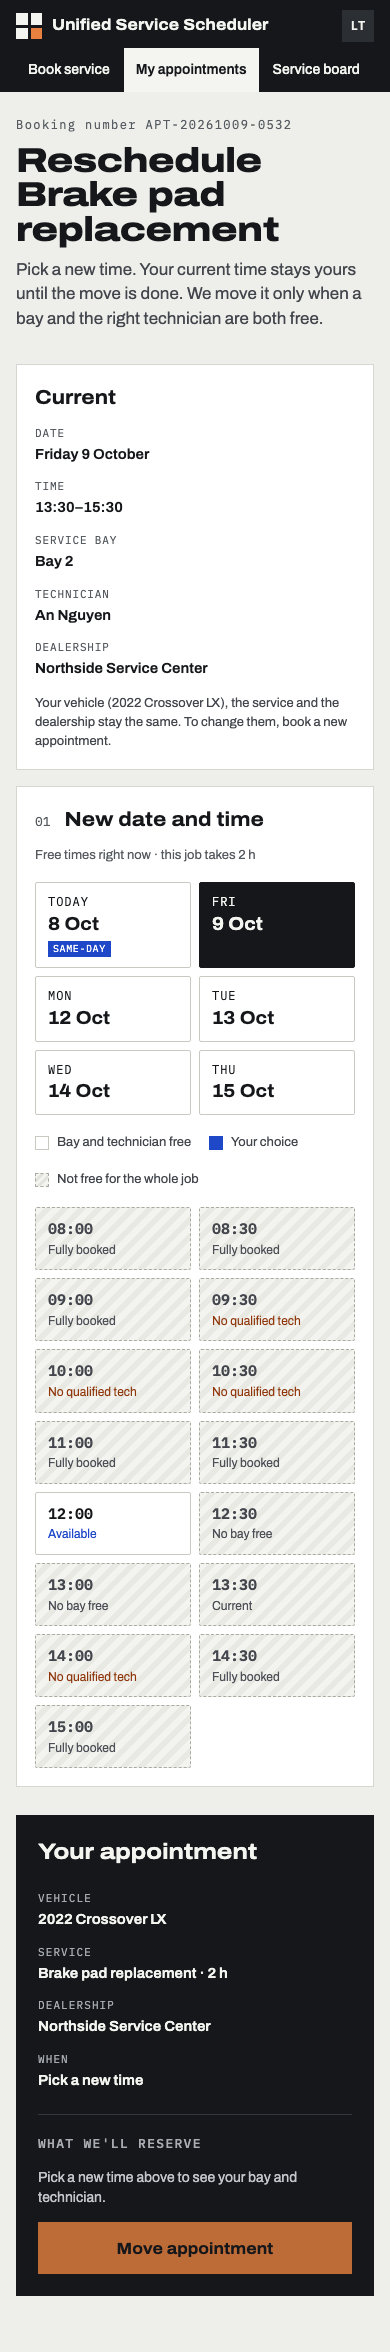
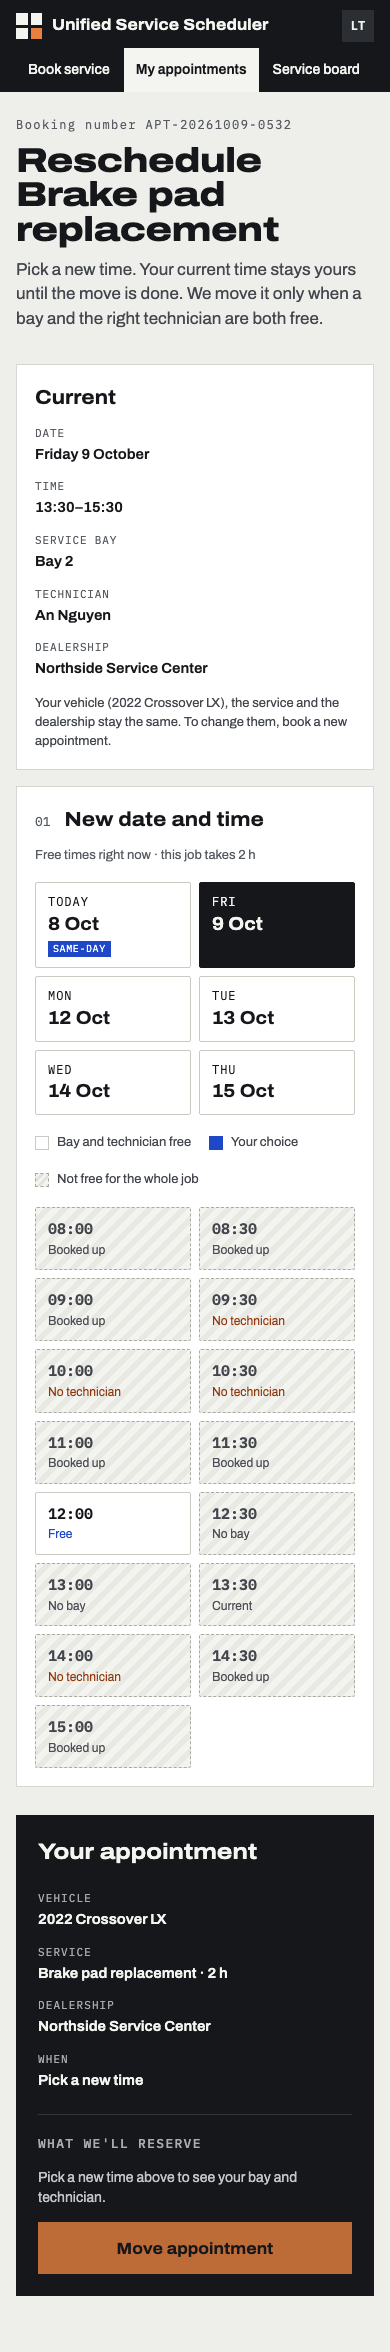
W6-F6: SPEC v0.3.1 copy

diff --git a/apps/web/src/screens/book/BookScreen.test.tsx b/apps/web/src/screens/book/BookScreen.test.tsx
@@ -77,7 +77,7 @@ describe('Book screen', () => {
       const slots = enabledSlots(group);
       expect(slots[0]).toHaveAttribute('aria-pressed', 'true');
       expect(slots.filter((b) => b.getAttribute('aria-pressed') === 'true')).toHaveLength(1);
-      expect(slots[0]!.getAttribute('aria-label')).toMatch(/^\d\d:\d\d to \d\d:\d\d, Available$/);
+      expect(slots[0]!.getAttribute('aria-label')).toMatch(/^\d\d:\d\d to \d\d:\d\d, Free$/);
     });
   });
 
@@ -105,11 +105,11 @@ describe('Book screen', () => {
     await user.click(screen.getByRole('button', { name: /^Today, Thu 8 Oct/ }));
     expect(
       await screen.findByText(
-        /Brake pad replacement can't be booked for today\. Same-day booking covers express services: Oil and filter change, General inspection/,
+        /Brake pad replacement can't be booked for today\. Today we only take express jobs: Oil and filter change, General inspection.*\. Pick another day for this service\./,
       ),
     ).toBeInTheDocument();
     expect(
-      screen.getByText(/Same-day booking covers express maintenance only\. Please arrive on time/),
+      screen.getByText(/Same-day booking is for express jobs only\. Please arrive on time/),
     ).toHaveTextContent('more than 15 minutes late');
     expect(screen.queryByRole('group', { name: 'Start time' })).not.toBeInTheDocument();
   });
@@ -126,7 +126,7 @@ describe('Book screen', () => {
     });
     const group = await slotGroup();
     const open = enabledSlots(group);
-    if (open.length) expect(open[0]).toHaveTextContent('Express slot');
+    if (open.length) expect(open[0]).toHaveTextContent('Express');
   });
 
   it('parts scenario blocks express services today', async () => {
@@ -137,7 +137,7 @@ describe('Book screen', () => {
     await user.click(screen.getByRole('button', { name: /^Today, Thu 8 Oct/ }));
     expect(
       await screen.findByText(
-        /Parts for this service aren't in stock at Northside Service Center today\. Try another dealership or a later date\./,
+        /We don't have the parts for this service at Northside Service Center today\. Try another dealership or another day\./,
       ),
     ).toBeInTheDocument();
   });
@@ -150,7 +150,7 @@ describe('Book screen', () => {
     await user.click(screen.getByRole('button', { name: /^Today, Thu 8 Oct/ }));
     expect(
       await screen.findByText(
-        /Same-day booking for today has closed\. Earliest same-day start is 2 hours ahead\./,
+        /Booking for today is closed\. Same-day jobs must start at least 2 hours from now\. Pick another day\./,
       ),
     ).toBeInTheDocument();
   });

diff --git a/apps/web/src/screens/book/TimePicker.tsx b/apps/web/src/screens/book/TimePicker.tsx
@@ -109,7 +109,7 @@ export function TimePicker({
 
       {date === today || data?.sameDay ? (
         <p className={styles.notice}>
-          {`Same-day booking covers express maintenance only. Please arrive on time — same-day bookings are released if you are more than ${graceMin} minutes late.`}
+          {`Same-day booking is for express jobs only. Please arrive on time. If you are more than ${graceMin} minutes late, we give your time to someone else.`}
         </p>
       ) : null}
 
@@ -142,17 +142,17 @@ export function TimePicker({
       ) : data?.sameDay?.blocked === 'SERVICE_NOT_EXPRESS' ? (
         <p
           className={styles.warn}
-        >{`${serviceName} can't be booked for today. Same-day booking covers express services: ${expressNames.join(', ')}.`}</p>
+        >{`${serviceName} can't be booked for today. Today we only take express jobs: ${expressNames.join(', ')}. Pick another day for this service.`}</p>
       ) : data?.sameDay?.blocked === 'PARTS_UNAVAILABLE' ? (
         <p className={styles.warn}>
           {fixedDealership
-            ? `Parts for this service aren't in stock at ${dealerName} today. Try a later date.`
-            : `Parts for this service aren't in stock at ${dealerName} today. Try another dealership or a later date.`}
+            ? `We don't have the parts for this service at ${dealerName} today. Try another day.`
+            : `We don't have the parts for this service at ${dealerName} today. Try another dealership or another day.`}
         </p>
       ) : data?.sameDay?.blocked === 'PAST_CUTOFF' ? (
         <p
           className={styles.warn}
-        >{`Same-day booking for today has closed. Earliest same-day start is ${data.sameDay.leadTimeMin / 60} hours ahead.`}</p>
+        >{`Booking for today is closed. Same-day jobs must start at least ${data.sameDay.leadTimeMin / 60} hours from now. Pick another day.`}</p>
       ) : (
         <>
           <SlotGrid slots={slots} selectedStart={selectedStart} currentStart={currentStart} onPick={onPick} />

diff --git a/e2e/03-same-day-express.spec.ts b/e2e/03-same-day-express.spec.ts
@@ -15,10 +15,10 @@ test('Today: express services show Express slots and the notice; brake pads show
 
   await expect(
     page.getByText(
-      'Same-day booking covers express maintenance only. Please arrive on time — same-day bookings are released if you are more than 15 minutes late.',
+      'Same-day booking is for express jobs only. Please arrive on time. If you are more than 15 minutes late, we give your time to someone else.',
     ),
   ).toBeVisible();
-  const express = page.getByRole('button', { name: /to \d\d:\d\d, Express slot$/ });
+  const express = page.getByRole('button', { name: /to \d\d:\d\d, Express$/ });
   await expect(express.first()).toBeVisible();
   // Lead time: nothing is offered before 11:30 (09:10 + 2 h).
   await expect(page.getByRole('button', { name: /^(08|09|10|11:00) to / })).toHaveCount(0);
@@ -26,12 +26,12 @@ test('Today: express services show Express slots and the notice; brake pads show
 
   await serviceButton(page, 'Brake pad replacement').click();
   await expect(
-    page.getByText(/Brake pad replacement can't be booked for today\. Same-day booking covers express services: /),
+    page.getByText(/Brake pad replacement can't be booked for today\. Today we only take express jobs: /),
   ).toBeVisible();
   await expect(page.getByRole('group', { name: 'Start time' })).toHaveCount(0);
 
   // Another day brings the normal grid back and the notice goes away.
   await dateButton(page, '2026-10-12').click();
-  await expect(page.getByText('Same-day booking covers express maintenance only')).toHaveCount(0);
+  await expect(page.getByText('Same-day booking is for express jobs only')).toHaveCount(0);
   await expect(page.getByRole('group', { name: 'Start time' })).toBeVisible();
 });

diff --git a/apps/web/src/screens/book/labels.test.tsx b/apps/web/src/screens/book/labels.test.tsx
@@ -21,12 +21,12 @@ const slot = (startTime: string, status: SlotStatus, isExpress = false): Availab
 
 describe('slot status mapping', () => {
   const cases: [SlotStatus, boolean, string][] = [
-    ['AVAILABLE', false, 'Available'],
-    ['AVAILABLE', true, 'Express slot'],
-    ['NO_QUALIFIED_TECHNICIAN', false, 'No qualified tech'],
-    ['NO_BAY', false, 'No bay free'],
-    ['FULLY_BOOKED', false, 'Fully booked'],
-    ['SAME_DAY_QUOTA_REACHED', true, 'Same-day quota full'],
+    ['AVAILABLE', false, 'Free'],
+    ['AVAILABLE', true, 'Express'],
+    ['NO_QUALIFIED_TECHNICIAN', false, 'No technician'],
+    ['NO_BAY', false, 'No bay'],
+    ['FULLY_BOOKED', false, 'Booked up'],
+    ['SAME_DAY_QUOTA_REACHED', true, 'Today is full'],
   ];
   it.each(cases)('%s (express=%s) → "%s"', (status, express, label) => {
     expect(slotLabel({ status, isExpress: express })).toBe(label);
@@ -49,10 +49,10 @@ describe('slot status mapping', () => {
         ]}
       />,
     );
-    const picked = screen.getByRole('button', { name: '08:00 to 10:00, Available' });
+    const picked = screen.getByRole('button', { name: '08:00 to 10:00, Free' });
     expect(picked).toBeEnabled();
     expect(picked).toHaveAttribute('aria-pressed', 'true');
-    for (const reason of ['No qualified tech', 'No bay free', 'Fully booked', 'Same-day quota full']) {
+    for (const reason of ['No technician', 'No bay', 'Booked up', 'Today is full']) {
       const b = screen.getByRole('button', { name: new RegExp(`, ${reason}$`) });
       expect(b).toBeDisabled();
       expect(b).toHaveAttribute('aria-pressed', 'false');

diff --git a/e2e/06-reschedule.spec.ts b/e2e/06-reschedule.spec.ts
@@ -9,7 +9,7 @@ test('book, reschedule to another day from the record, see the notice and histor
 }) => {
   const first = await firstSlotFreeForVehicle('OIL_CHANGE');
   await pickService(page, SERVICE, first.date);
-  await page.getByRole('button', { name: `${first.startTime} to ${first.endTime}, Available` }).click();
+  await page.getByRole('button', { name: `${first.startTime} to ${first.endTime}, Free` }).click();
   await page.getByRole('button', { name: 'Confirm appointment' }).click();
   const reference = await openRecordFromConfirmation(page);
 
@@ -23,7 +23,7 @@ test('book, reschedule to another day from the record, see the notice and histor
 
   const target = await firstSlotFreeForVehicle('OIL_CHANGE', [first.date]);
   await dateButton(page, target.date).click();
-  const slot = page.getByRole('button', { name: `${target.startTime} to ${target.endTime}, Available` });
+  const slot = page.getByRole('button', { name: `${target.startTime} to ${target.endTime}, Free` });
   await slot.click();
   await expect(slot).toHaveAttribute('aria-pressed', 'true');
   await page.getByRole('button', { name: 'Move appointment' }).click();
@@ -34,5 +34,5 @@ test('book, reschedule to another day from the record, see the notice and histor
 
   // The old slot can be booked again.
   await pickService(page, SERVICE, first.date);
-  await expect(page.getByRole('button', { name: `${first.startTime} to ${first.endTime}, Available` })).toBeEnabled();
+  await expect(page.getByRole('button', { name: `${first.startTime} to ${first.endTime}, Free` })).toBeEnabled();
 });

diff --git a/e2e/02-conflict.spec.ts b/e2e/02-conflict.spec.ts
@@ -8,7 +8,7 @@ test('a slot taken meanwhile gives a 409 panel with alternatives; picking one co
   const { date, startTime, endTime } = await firstOpenSlot('OIL_CHANGE');
 
   await pickService(page, SERVICE, date);
-  await expect(page.getByRole('button', { name: `${startTime} to ${endTime}, Available` })).toHaveAttribute(
+  await expect(page.getByRole('button', { name: `${startTime} to ${endTime}, Free` })).toHaveAttribute(
     'aria-pressed',
     'true',
   );
@@ -25,14 +25,14 @@ test('a slot taken meanwhile gives a 409 panel with alternatives; picking one co
   expect(await alternatives.count()).toBeGreaterThan(0);
 
   // The stale slot is now shown as unavailable.
-  await expect(page.getByRole('button', { name: new RegExp(`^${startTime} to ${endTime}, (?!Available)`) })).toBeDisabled();
+  await expect(page.getByRole('button', { name: new RegExp(`^${startTime} to ${endTime}, (?!Free)`) })).toBeDisabled();
 
   const first = alternatives.first();
   const label = (await first.innerText()).trim(); // e.g. "Mon 12 Oct · 12:00–12:45"
   const altStart = /· (\d\d:\d\d)–/.exec(label)![1]!;
   await first.click();
   await expect(panel).toHaveCount(0);
-  await expect(page.getByRole('button', { name: new RegExp(`^${altStart} to .*Available`) })).toHaveAttribute(
+  await expect(page.getByRole('button', { name: new RegExp(`^${altStart} to .*Free`) })).toHaveAttribute(
     'aria-pressed',
     'true',
   );

diff --git a/apps/web/src/screens/book/labels.ts b/apps/web/src/screens/book/labels.ts
@@ -15,19 +15,19 @@ export const BAY_TYPE_LABEL: Record<BayType, string> = {
 };
 
 export const SLOT_STATUS_LABEL: Record<SlotStatus, string> = {
-  AVAILABLE: 'Available',
-  NO_QUALIFIED_TECHNICIAN: 'No qualified tech',
-  NO_BAY: 'No bay free',
-  FULLY_BOOKED: 'Fully booked',
-  SAME_DAY_QUOTA_REACHED: 'Same-day quota full',
+  AVAILABLE: 'Free',
+  NO_QUALIFIED_TECHNICIAN: 'No technician',
+  NO_BAY: 'No bay',
+  FULLY_BOOKED: 'Booked up',
+  SAME_DAY_QUOTA_REACHED: 'Today is full',
 };
 
-/** Visible status text of a slot. Available same-day slots read "Express slot". */
+/** Visible status text of a slot. Available same-day slots read "Express". */
 export function slotLabel(slot: Pick<AvailabilitySlot, 'status' | 'isExpress'>): string {
-  return slot.status === 'AVAILABLE' && slot.isExpress ? 'Express slot' : SLOT_STATUS_LABEL[slot.status];
+  return slot.status === 'AVAILABLE' && slot.isExpress ? 'Express' : SLOT_STATUS_LABEL[slot.status];
 }
 
-/** Accessible name of a slot button, e.g. "08:00 to 10:00, No qualified tech". */
+/** Accessible name of a slot button, e.g. "08:00 to 10:00, No technician". */
 export function slotAriaLabel(
   slot: Pick<AvailabilitySlot, 'startTime' | 'endTime' | 'status' | 'isExpress'>,
 ): string {

diff --git a/e2e/01-book-cancel.spec.ts b/e2e/01-book-cancel.spec.ts
@@ -5,11 +5,11 @@ const SERVICE = 'Oil and filter change';
 
 test('book an advance appointment, open the record, cancel it and see the slot free again', async ({ page }) => {
   const { date, startTime, endTime } = await firstOpenSlot('OIL_CHANGE');
-  const slot = page.getByRole('button', { name: `${startTime} to ${endTime}, Available` });
+  const slot = page.getByRole('button', { name: `${startTime} to ${endTime}, Free` });
 
   await pickService(page, SERVICE, date);
   await expect(slot).toHaveAttribute('aria-pressed', 'true');
-  await expect(page.getByText('Same-day booking covers express maintenance only')).toHaveCount(0);
+  await expect(page.getByText('Same-day booking is for express jobs only')).toHaveCount(0);
 
   await page.getByRole('button', { name: 'Confirm appointment' }).click();
 

diff --git a/apps/web/src/screens/reschedule/RescheduleScreen.test.tsx b/apps/web/src/screens/reschedule/RescheduleScreen.test.tsx
@@ -146,8 +146,8 @@ describe('W6-F5 reschedule findings', () => {
     const a = addAppointment({ date: '2026-10-09', startMin: 10 * 60, endMin: 10 * 60 + 45, serviceTypeCode: 'OIL_CHANGE' });
     renderReschedule(a.reference, 'morning,parts');
     await user.click(await screen.findByRole('button', { name: /^Today, Thu 8 Oct/ }));
-    const panel = await screen.findByText(/aren't in stock at/);
-    expect(panel).toHaveTextContent('Try a later date.');
+    const panel = await screen.findByText(/We don't have the parts for this service at/);
+    expect(panel).toHaveTextContent('Try another day.');
     expect(panel).not.toHaveTextContent(/another dealership/);
   });
 });

diff --git a/e2e/04-board-check-in.spec.ts b/e2e/04-board-check-in.spec.ts
@@ -9,7 +9,7 @@ test('a same-day booking appears on the board with the Express tag', async ({ pa
   await page.goto('/book');
   await serviceButton(page, 'Oil and filter change').click();
   await dateButton(page, '2026-10-08').click();
-  await expect(page.getByRole('button', { name: /Express slot$/ }).first()).toBeVisible();
+  await expect(page.getByRole('button', { name: /Express$/ }).first()).toBeVisible();
   await page.getByRole('button', { name: 'Confirm appointment' }).click();
   await expect(page.getByRole('heading', { level: 1, name: /You're booked for Thursday 8 October/ })).toBeVisible();
   reference = await openRecordFromConfirmation(page);

diff --git a/e2e/05-screenshots.spec.ts b/e2e/05-screenshots.spec.ts
@@ -39,7 +39,7 @@ for (const viewport of VIEWPORTS) {
     test('book', async ({ page }) => {
       const { date, startTime, endTime } = await firstOpenSlot('OIL_CHANGE');
       await pickService(page, 'Oil and filter change', date);
-      await expect(page.getByRole('button', { name: `${startTime} to ${endTime}, Available` })).toHaveAttribute(
+      await expect(page.getByRole('button', { name: `${startTime} to ${endTime}, Free` })).toHaveAttribute(
         'aria-pressed',
         'true',
       );

diff --git a/apps/web/src/screens/book/Summary.tsx b/apps/web/src/screens/book/Summary.tsx
@@ -125,7 +125,7 @@ export function Summary({
               disabled={checking}
               aria-busy={checking}
             >
-              {checking ? 'Checking bay and technician…' : confirmLabel}
+              {checking ? 'Reserving your bay and technician…' : confirmLabel}
             </button>
           </>
         ) : (
